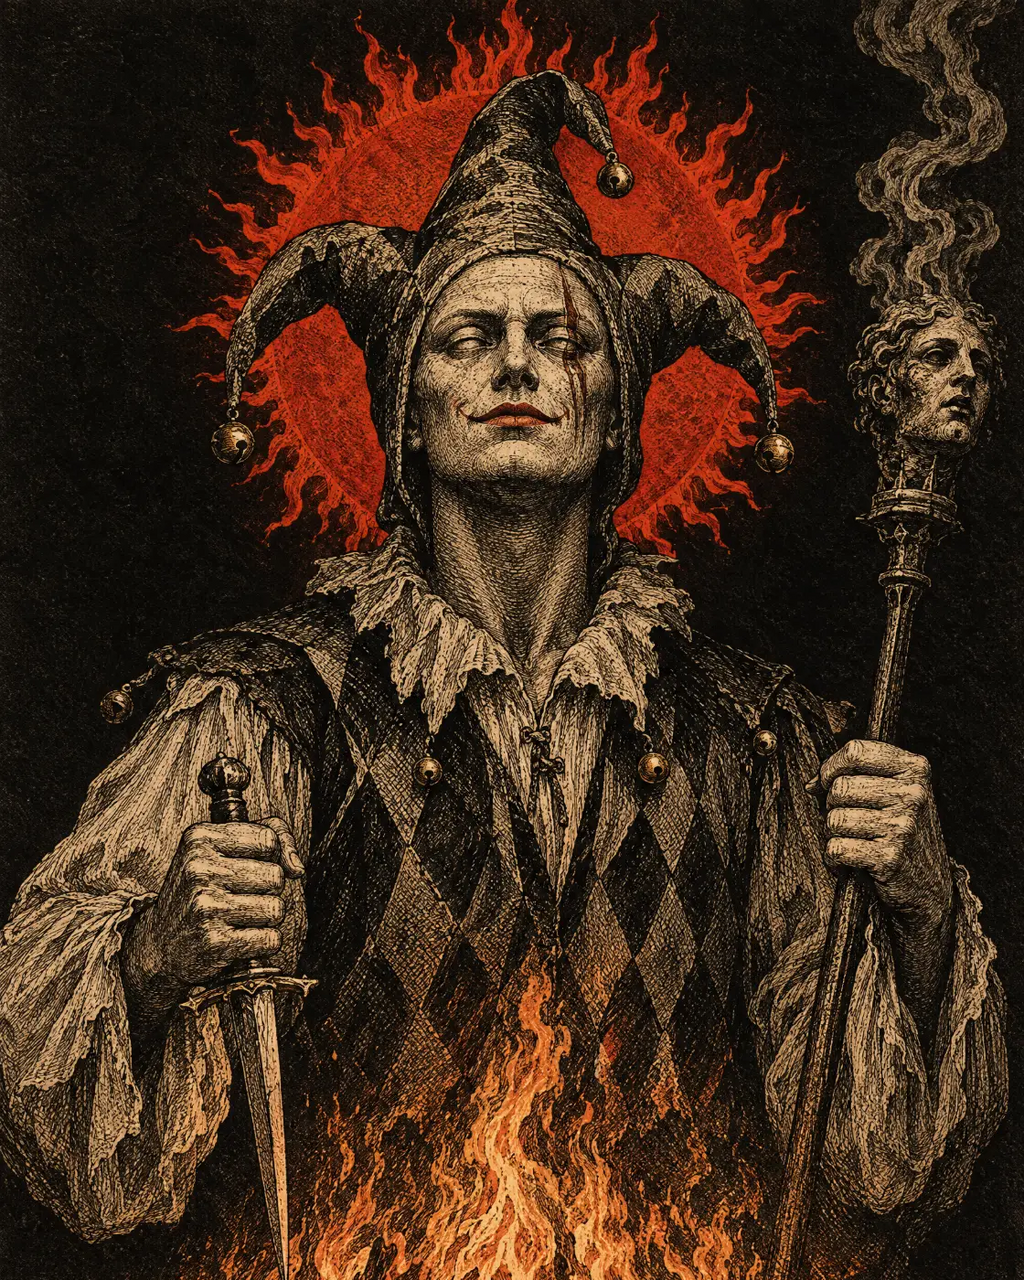
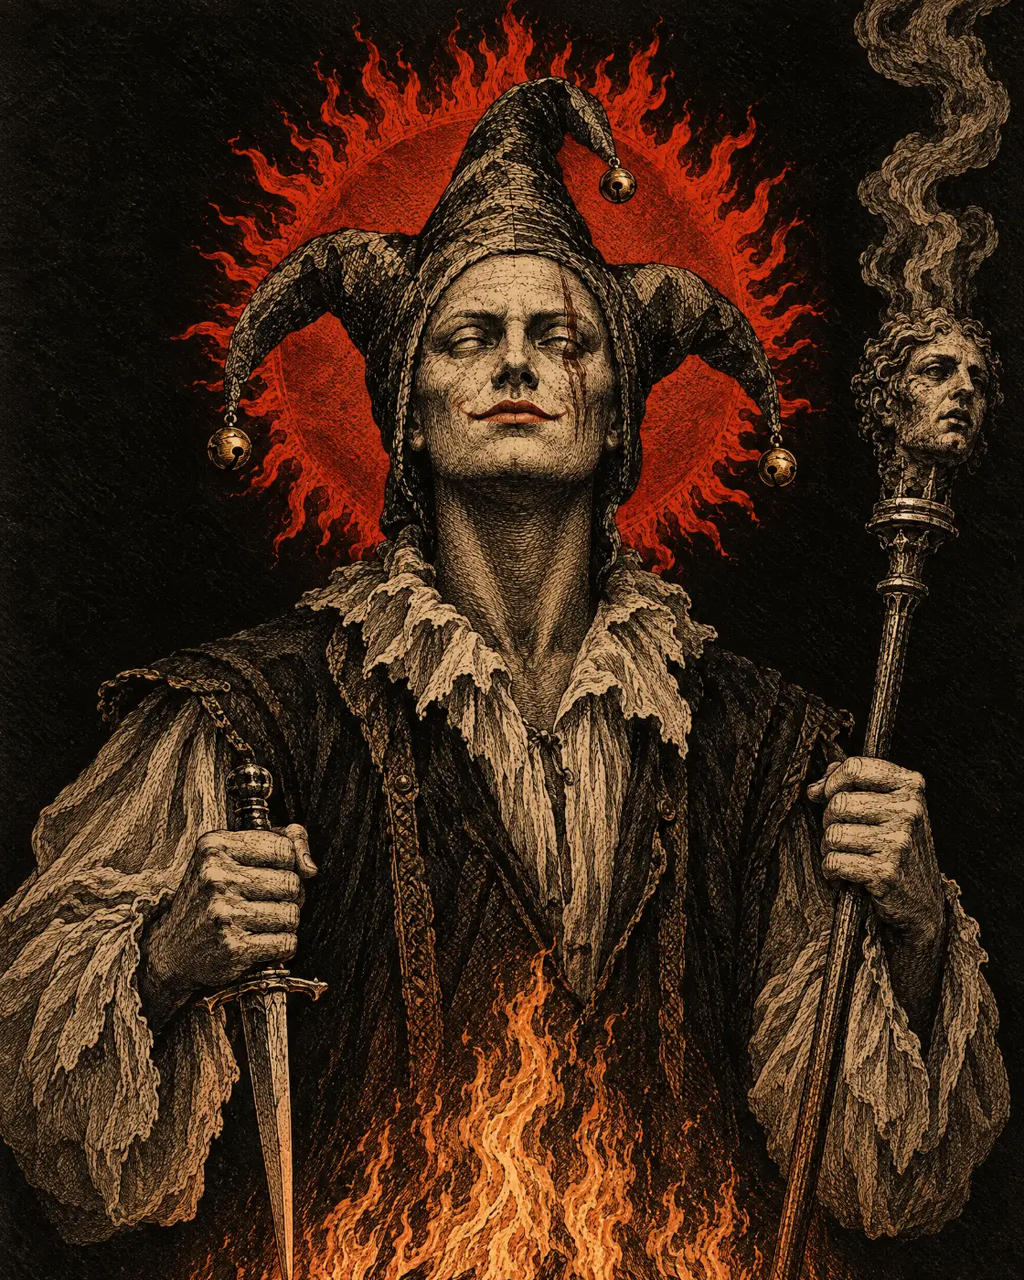
portraits: Шут — вторая версия от автора
Новая картина вместо прежней: та же поза и свет, камзол тёмный, без
ромбов арлекина. Обрезана до 4:5 снизу (уходит полоса костра),
1024×1280; журнал §13 поправлен.

Claude-Session: https://claude.ai/code/session_01W1QYpUgPvprt4gjyDEjp8o

diff --git a/night/PROMPTS_HIGGSFIELD.md b/night/PROMPTS_HIGGSFIELD.md
@@ -451,9 +451,10 @@ min(420px, 88vw)). Отсюда **правило композиции заста
 
 В игре сейчас (`assets/portraits/`, 4:5, 1024×1280):
 - `sol.png` — №4 из §12;
-- `jester.png` — картина автора по короткому промту ниже: белое лицо,
-  красные губы, колпак с тремя рогами, ромбы, горящий нимб, кинжал остриём
-  вниз, дымящаяся пика, костёр снизу;
+- `jester.png` — картина автора по короткому промту ниже, вторая версия
+  (26.10, заменила первую): белое лицо, красные губы, колпак с тремя рогами,
+  горящий нимб, кинжал остриём вниз, дымящаяся пика с головой, костёр снизу;
+  камзол тёмный, без ромбов арлекина — отступление от канона, выбор автора;
 - `nocturnal.png` — картина автора, Лунный «немного кибернетически-цифровой,
   несильно» (слово автора): дорожки платы по ободу серпа, нити уходят
   в пиксели, песок сыплется квадратными зёрнами.
